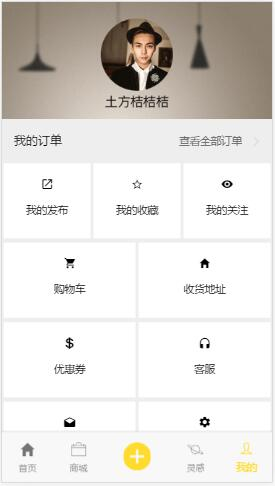
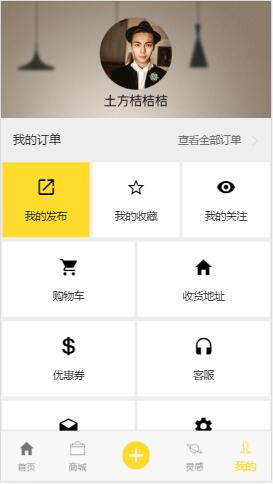
桔家完善

diff --git a/桔家/pages/about/about.html b/桔家/pages/about/about.html
@@ -1,21 +1,53 @@
-<ion-header>
-  <ion-navbar>
-    <ion-title>
-      About
-    </ion-title>
-  </ion-navbar>
-</ion-header>
-
 <ion-content>
-<ion-slides (ionSlideDidChange)="change()" pager="true" autoplay="1000" loop="true" class="sli">
-  <ion-slide>
-    <img src="../../assets/imgs/a.jpg">
-  </ion-slide>
-  <ion-slide>
-    <img src="../../assets/imgs/b.jpg">
-  </ion-slide>
-  <ion-slide>
-    <img src="../../assets/imgs/c.jpg">
-  </ion-slide>
-</ion-slides> 
+  <ion-searchbar>
+  </ion-searchbar>
+  <div class="subtitle">
+      <img src="../../assets/imgs/images/商城01.png">
+  </div>
+  <ul class="navList">
+      <li (click)="isClick(0)" [class.first]="isActive==0">客厅</li>
+      <li (click)="isClick(1)" [class.first]="isActive==1">卧室</li>
+      <li (click)="isClick(2)" [class.first]="isActive==2">餐厅</li>
+      <li (click)="isClick(3)" [class.first]="isActive==3">书房</li>
+      <li (click)="isClick(4)" [class.first]="isActive==4">门厅</li>
+  </ul>
+  <div [ngSwitch]="isActive">
+    <div *ngSwitchCase="0">
+      <span>
+        <p>————沙发————</p>
+      </span>
+      <ion-grid class="goods">
+          <ion-row>
+            <ion-col col-6>
+              <img src="../../assets/imgs/images/商城02.png" alt="">
+            </ion-col>
+            <ion-col col-6>
+              <img src="../../assets/imgs/images/商城03.png" alt="">
+            </ion-col>
+            <ion-col col-6>
+              <img src="../../assets/imgs/images/商城04.png" alt="">
+            </ion-col>
+            <ion-col col-6>
+              <img src="../../assets/imgs/images/商城05.png" alt="">
+            </ion-col>
+            <ion-col col-12>
+              <div class="more">
+                查看全部商品>>
+              </div>
+            </ion-col>
+          </ion-row>
+      </ion-grid>
+      <span>
+        <p>————电视柜————</p>
+      </span>
+    </div>
+    <div *ngSwitchCase="1">
+    </div>
+    <div *ngSwitchCase="2">
+    </div>
+    <div *ngSwitchCase="3">
+    </div>
+    <div *ngSwitchCase="3">
+    </div>
+  </div>
 </ion-content>

diff --git a/桔家/pages/about/about.scss b/桔家/pages/about/about.scss
@@ -1,6 +1,44 @@
 page-about {
-   .sli{
-       height: 200px;
-       border: 1px solid red;
-   }
+    .subtitle{
+        img{
+            width: 100%;
+        }
+    }
+    .navList{
+        padding-left: 0;
+        margin: -4px;
+        height: 44px;
+        line-height: 44px;
+        .first{
+            background-color:  #ffdb2c;
+        }
+        li{
+            size: 40px;
+            height: 44px;
+            text-align: center;
+            float: left;
+            width: 20%;
+        }
+    }
+    span{
+        width: 100%;
+        height: 30px;
+        text-align: center;
+        p{
+            margin:4px 0;
+        }
+    }
+    .goods{
+        img{
+            width: 100%;
+        }
+        ion-col{
+            position:relative;
+            .more{
+                width: 100%;
+                height: 20px;
+                text-align: right;
+            }
+        }
+    }
 }

diff --git a/桔家/pages/set/set.html b/桔家/pages/set/set.html
@@ -1,8 +1,5 @@
 <ion-header text-center no-border>
   <ion-navbar color="yel">
-    <button ion-button icon-only menuToggle>
-       <ion-icon name=""></ion-icon>
-    </button>
     <ion-title>
       设置
     </ion-title>
@@ -13,7 +10,19 @@
     </ion-buttons>
   </ion-navbar>
 </ion-header>
-
-<ion-content padding>
-
+<ion-content  style="background-color: #eeeeee;">
+  <ion-list class="list1">
+    <ion-item>
+      <h2><ion-icon name='menu'></ion-icon>&nbsp;&nbsp;清除缓存</h2>
+      <p item-end>666.6KB</p>
+    </ion-item>
+    <ion-item detail-push>
+      <h2><ion-icon name='people'></ion-icon>&nbsp;&nbsp;关于我们</h2>
+    </ion-item>
+    <ion-item detail-push>
+      <h2><ion-icon name='aperture'></ion-icon>&nbsp;&nbsp;版本信息</h2>
+    </ion-item>
+  </ion-list>
+  <p></p>
+  <button ion-button full (click)="backing()">退出登录</button>
 </ion-content>

diff --git a/桔家/app/app.module.ts b/桔家/app/app.module.ts
@@ -16,6 +16,8 @@ import { ComponentsModule } from '../components/components.module';
 import { HttpClientModule } from '@angular/common/http';
 import { MyPage } from '../pages/my/my';
 import { AddPage } from '../pages/add/add';
+import { SetPage } from '../pages/set/set';
+import { SearchPage } from '../pages/search/search';
 @NgModule({
   declarations: [
     MyApp,
@@ -26,7 +28,9 @@ import { AddPage } from '../pages/add/add';
     APage,
     BPage,
     MyPage,
-    AddPage
+    AddPage,
+    SetPage,
+    SearchPage
   ],
   imports: [
     BrowserModule,
@@ -47,7 +51,9 @@ import { AddPage } from '../pages/add/add';
     APage,
     BPage,
     MyPage,
-    AddPage
+    AddPage,
+    SetPage,
+    SearchPage
   ],
   providers: [
     StatusBar,

diff --git a/桔家/pages/about/about.ts b/桔家/pages/about/about.ts
@@ -1,5 +1,6 @@
 import { Component, ViewChild } from '@angular/core';
 import { NavController, Slides } from 'ionic-angular';
+import { HttpClient } from '@angular/common/http';
 
 @Component({
   selector: 'page-about',
@@ -7,7 +8,11 @@ import { NavController, Slides } from 'ionic-angular';
 })
 export class AboutPage {
   @ViewChild(Slides) Slides:Slides;
-  constructor(public navCtrl: NavController) {
+  isActive=0;
+  isClick(i){
+    this.isActive =i;
+  }
+  constructor(public http:HttpClient,public navCtrl: NavController) {
   }
   ionViewDidLoad(){
   }

diff --git a/桔家/pages/home/home.ts b/桔家/pages/home/home.ts
@@ -2,6 +2,7 @@ import { Component, ViewChild } from '@angular/core';
 import { NavController } from 'ionic-angular';
 import { BPage } from '../b/b';
 import { HttpClient } from '@angular/common/http';
+import { SearchPage } from '../search/search';
 @Component({
   selector: 'page-home',
   templateUrl: 'home.html'
@@ -19,7 +20,9 @@ export class HomePage {
       this.items.push( this.items.length );
     }
   }
- 
+  search(){
+    this.navCtrl.push(SearchPage);
+  }
   
   doInfinite(infiniteScroll) {
     this.http.get('/api/courses').subscribe(data=>{

diff --git a/桔家/pages/my/my.ts b/桔家/pages/my/my.ts
@@ -1,5 +1,6 @@
 import { Component } from '@angular/core';
 import { IonicPage, NavController, NavParams } from 'ionic-angular';
+import { SetPage } from '../set/set';
 
 /**
  * Generated class for the MyPage page.
@@ -16,6 +17,10 @@ import { IonicPage, NavController, NavParams } from 'ionic-angular';
 export class MyPage {
 
   constructor(public navCtrl: NavController, public navParams: NavParams) {
+  }
+
+  setting(){
+    this.navCtrl.push(SetPage);
   }
 
   ionViewDidLoad() {

diff --git a/桔家/pages/set/set.ts b/桔家/pages/set/set.ts
@@ -1,5 +1,6 @@
 import { Component } from '@angular/core';
 import { IonicPage, NavController, NavParams } from 'ionic-angular';
+import { MyPage } from '../my/my';
 
 /**
  * Generated class for the SetPage page.
@@ -17,7 +18,9 @@ export class SetPage {
 
   constructor(public navCtrl: NavController, public navParams: NavParams) {
   }
-
+  backing(){
+    this.navCtrl.push(MyPage);
+  }
   ionViewDidLoad() {
     console.log('ionViewDidLoad SetPage');
   }

diff --git a/桔家/pages/home/home.html b/桔家/pages/home/home.html
@@ -7,7 +7,7 @@
       <img src="../../assets/imgs/logo01.png">
     </ion-title>
     <ion-buttons end>
-      <button ion-button icon-only>
+      <button ion-button icon-only (click)="search()">
         <ion-icon name="search"></ion-icon><!-- 没有也写个空的让home居中 -->
       </button>
     </ion-buttons>

diff --git a/桔家/pages/my/my.scss b/桔家/pages/my/my.scss
@@ -19,7 +19,11 @@ page-my {
             padding:20px;      
           }  
           ion-col:hover{
-            background-color: #ffdb2c;;
+            background-color: #ffdb2c;
+          }
+          ion-icon {
+            display: inline-block;
+            font-size: 2em;
           }
         }
     }

diff --git a/桔家/pages/my/my.html b/桔家/pages/my/my.html
@@ -45,11 +45,10 @@
   </ion-row>
   <ion-row>
     <ion-col>
-      
       <ion-icon name='mail-open'></ion-icon>
       <p>我的消息</p>
     </ion-col>
-    <ion-col>
+    <ion-col  (click)="setting()">
       <ion-icon name='settings'></ion-icon>
       <p>设置</p>
     </ion-col>

diff --git a/桔家/pages/set/set.scss b/桔家/pages/set/set.scss
@@ -1,3 +1,15 @@
 page-set {
-
+    .toolbar-title-md {
+        width: 150px;
+    }
+    .list-md {
+        margin-top: 20px;
+    }
+    ion-list{
+        line-height: 44px;
+    }
+    .button-full-md{
+        background-color: #ffdb2c;
+        color: black;
+    }
 }
